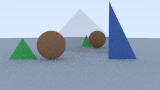
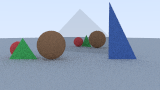
Add new trianlge image and some minor code tidying.

diff --git a/dev_helpers/sandbox.py b/dev_helpers/sandbox.py
@@ -6,9 +6,12 @@ import random
 import pprint
 import json
 import timeit
+from textwrap import dedent
+
 
 import numpy
 import humanize
+
 
 RNG = numpy.random.default_rng()
 
@@ -117,67 +120,90 @@ def numpy_speedup_test():
 
     print(a_vecs ** 2)
 
-    setup = """
-import numpy
-RNG = numpy.random.default_rng()
-lots_a = RNG.random((50, 3))
-lots_b = RNG.random((50, 3))
-"""
-    slow = """
-dots = []
-for i in range(50):
-    dots.append(numpy.dot(lots_a[i], lots_b[i]))
-"""
+    setup = dedent("""
+    import numpy
+    RNG = numpy.random.default_rng()
+    lots_a = RNG.random((50, 3))
+    lots_b = RNG.random((50, 3))
+    """)
 
-    fast = """
-dots = numpy.sum(lots_a * lots_b, axis=1)
-    """
+    slow = dedent("""
+    dots = []
+    for i in range(50):
+        dots.append(numpy.dot(lots_a[i], lots_b[i]))
+    """)
 
-    faster = """
-dots = numpy.einsum("ij,ij->i", lots_a, lots_b)
-"""
+    fast = dedent("""
+    dots = numpy.sum(lots_a * lots_b, axis=1)
+    """)
+
+    faster = dedent("""
+    dots = numpy.einsum("ij,ij->i", lots_a, lots_b)
+    """)
 
     print(timeit.timeit(slow, setup=setup, number=10000))
     print(timeit.timeit(fast, setup=setup, number=10000))
     print(timeit.timeit(faster, setup=setup, number=10000))
 
 
-def numpy_dot_cross_speed_test():
-
-    setup = """
-import numpy
-RNG = numpy.random.default_rng()
-lots_a = RNG.random((50, 3))
-lots_b = RNG.random((50, 3))
-"""
-    dot_func = """
-dots = []
-for i in range(50):
-    dots.append(numpy.dot(lots_a[i], lots_b[i]))
-"""
-
-    dot_meth = """
-dots = []
-for i in range(50):
-    dots.append(lots_a[i].dot(lots_b[i]))
+def numpy_dot_speed_test():
+    """
+    ndarraysa dont have a .cross method
     """
 
-    cross_func = """
-crosses = []
-for i in range(50):
-    crosses.append(numpy.cross(lots_a[i], lots_b[i]))
-"""
+    setup = dedent("""
+    import numpy
+    RNG = numpy.random.default_rng()
+    lots_a = RNG.random((50, 3))
+    lots_b = RNG.random((50, 3))
+    """)
 
-    cross_meth = """
-crosses = []
-for i in range(50):
-    crosses.append(lots_a[i].cross(lots_b[i]))
-    """
+    dot_func = dedent("""
+    dots = []
+    for i in range(50):
+        dots.append(numpy.dot(lots_a[i], lots_b[i]))
+    """)
+
+    dot_meth = dedent("""
+    dots = []
+    for i in range(50):
+        dots.append(lots_a[i].dot(lots_b[i]))
+    """)
 
     print(timeit.timeit(dot_func, setup=setup, number=10000))
     print(timeit.timeit(dot_meth, setup=setup, number=10000))
-    # print(timeit.timeit(cross_func, setup=setup, number=1000))
-    # print(timeit.timeit(cross_meth, setup=setup, number=1000))
+
+
+def numpy_preallocate_speed_test():
+    setup = dedent("""
+    import numpy
+    RNG = numpy.random.default_rng()
+    lots_a = RNG.random((5000, 3), dtype=numpy.float64)
+    lots_b = RNG.random((5000, 3), dtype=numpy.float64)
+    res = numpy.full(5000, 0.1234, dtype=numpy.float64)
+    """)
+
+    no_pre_sum = dedent("""
+    dots = numpy.sum(lots_a * lots_b, axis=1)
+    dots[0] = 1.2
+    """)
+
+    pre_sum = dedent("""
+    numpy.sum(lots_a * lots_b, axis=1, out=res)
+    """)
+
+    no_pre_ein = dedent("""
+    dots = numpy.einsum("ij,ij->i", lots_a, lots_b)
+    """)
+
+    pre_ein = dedent("""
+    numpy.einsum("ij,ij->i", lots_a, lots_b, out=res)
+    """)
+
+    print(timeit.timeit(no_pre_sum, setup=setup, number=10000))
+    print(timeit.timeit(pre_sum, setup=setup, number=10000))
+    print(timeit.timeit(no_pre_ein, setup=setup, number=10000))
+    print(timeit.timeit(pre_ein, setup=setup, number=10000))
 
 
 def numpy_vectorise_tests():
@@ -267,6 +293,7 @@ def numpy_vectorise_tests():
 main.main()
 # write_sphere_json()
 # numpy_speedup_test()
+# numpy_preallocate_speed_test()
 # numpy_dot_cross_speed_test()
 # numpy_vectorise_tests()
 

diff --git a/src/raytracing_one_weekend/main.py b/src/raytracing_one_weekend/main.py
@@ -385,6 +385,7 @@ def mttriangles_scene():
     brown_mat = materials.PointOnHemiSphereMaterial(numpy.array([0.4, 0.2, 0.1]))
     blue_mat = materials.PointOnHemiSphereMaterial(numpy.array([0.1, 0.2, 0.5]))
     green_mat = materials.PointOnHemiSphereMaterial(numpy.array([0.1, 0.6, 0.15]))
+    red_mat = materials.PointOnHemiSphereMaterial(numpy.array([0.8, 0.1, 0.1]))
     metal_mat = materials.MetalMaterial(numpy.array([0.8, 0.8, 0.8]), 0.0)
 
     world = World()
@@ -394,6 +395,9 @@ def mttriangles_scene():
 
     # Brown sphere
     world.renderables.append(Sphere(numpy.array([-1.0, 0.5, 0.0]), 0.5, brown_mat))
+
+    # Red sphere
+    world.renderables.append(Sphere(numpy.array([-2.3, 0.3, -0.4]), 0.3, red_mat))
 
     # Blue triangle
     world.renderables.append(MTTriangle(
@@ -455,20 +459,6 @@ def get_ray_colour(ray, world, depth):
 
         # Lerp between white and blue based on mapped Y
         return (1.0 - t) * HORIZON_COLOUR + t * SKY_COLOUR
-
-
-def normal_to_rgb(normal):
-    """
-    Convert a normal to an rgb colour.
-
-    Expects unit length normal.
-    """
-
-    return numpy.array([
-            normal[0] + 1.0,
-            normal[1] + 1.0,
-            normal[2] + 1.0,
-        ]) * 0.5
 
 
 def main():

diff --git a/src/raytracing_one_weekend/mttriangle.py b/src/raytracing_one_weekend/mttriangle.py
@@ -52,7 +52,7 @@ class MTTriangle():
         # This is more or less magic which I don't understand - there's
         # lots of detail in the scratachapixel article about how this
         # relates to transforming the triangle into barycentric
-        # coordinate space and coalculating matrix determinants - all
+        # coordinate space and calculating matrix determinants - all
         # very fancy.
         p_vec = numpy.cross(ray.direction, self.B)
         determinant = self.A.dot(p_vec)
